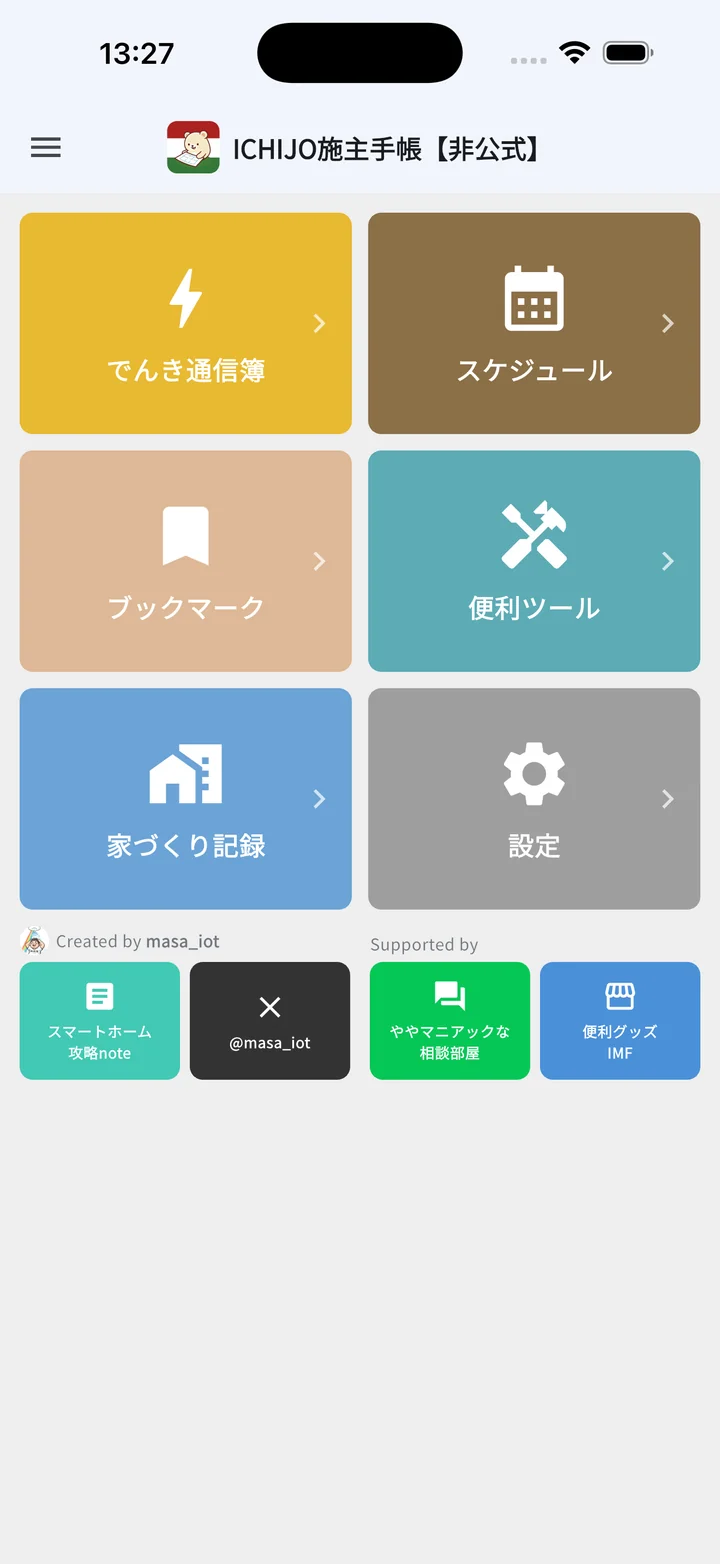
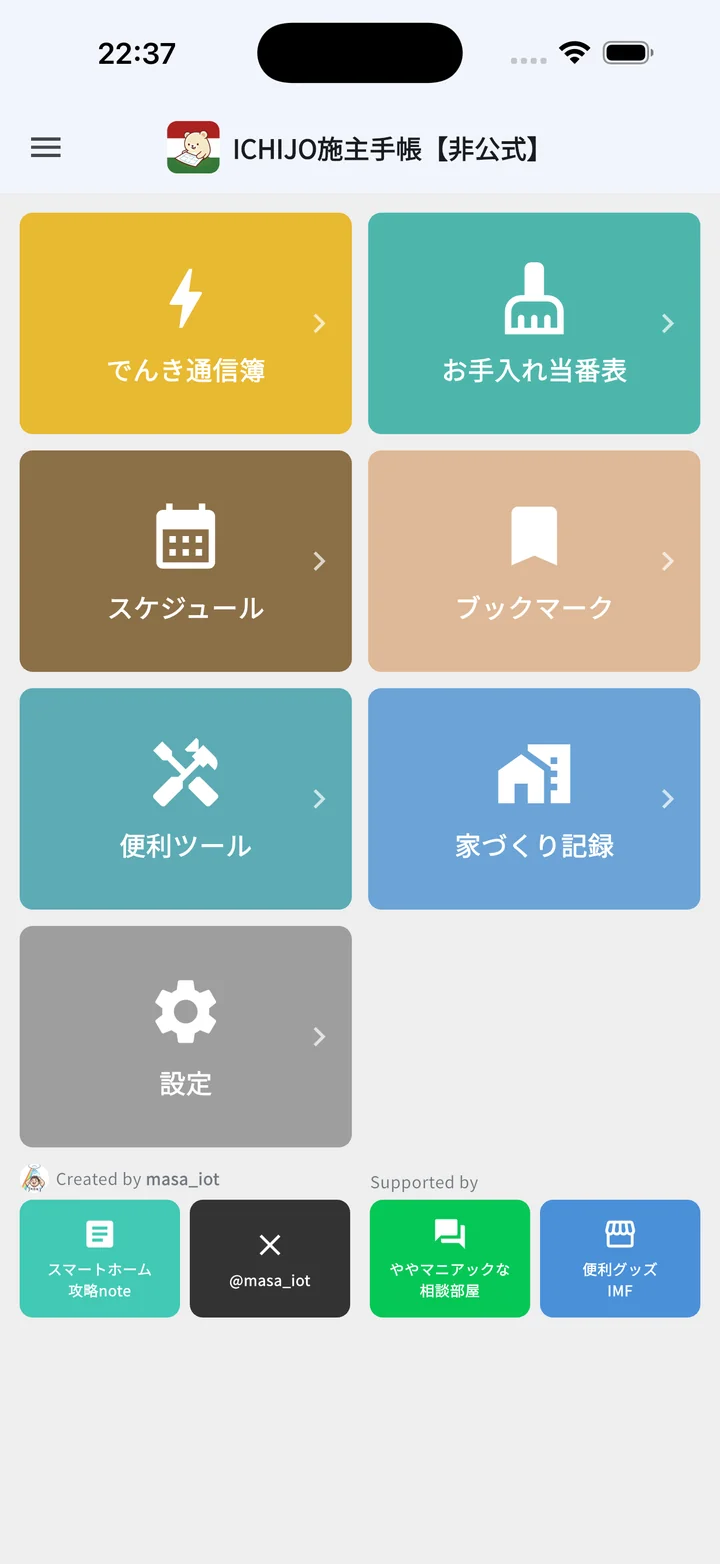
docs: お手入れ当番表セクションを追加 (v1.8.0)
- お手入れ当番表の章を新設（画面構成/追加/消し込み/詳細シート/編集/部屋/消耗品/通知/操作リファレンス、スクショ13枚）
- 暮らしモード 7 タイル化に伴いホーム/サイドメニュー/便利ツール/設定の記述とスクショを更新
- 機能マップ・概要・目次に項目追加

diff --git a/docs/manual.html b/docs/manual.html
@@ -645,6 +645,20 @@
     <li class="sub"><a href="#electricity-actions">操作リファレンス</a></li>
   </ul>
 
+  <h4>お手入れ当番表</h4>
+  <ul>
+    <li><a href="#maintenance">お手入れ当番表</a></li>
+    <li class="sub"><a href="#maintenance-overview">画面構成</a></li>
+    <li class="sub"><a href="#maintenance-add">お手入れの追加</a></li>
+    <li class="sub"><a href="#maintenance-done">実施の記録（消し込み）</a></li>
+    <li class="sub"><a href="#maintenance-detail">詳細シート</a></li>
+    <li class="sub"><a href="#maintenance-edit">編集画面</a></li>
+    <li class="sub"><a href="#maintenance-rooms">部屋の管理</a></li>
+    <li class="sub"><a href="#maintenance-consumables">消耗品と在庫</a></li>
+    <li class="sub"><a href="#maintenance-notifications">通知</a></li>
+    <li class="sub"><a href="#maintenance-actions">操作リファレンス</a></li>
+  </ul>
+
   <h4>マイページ</h4>
   <ul>
     <li><a href="#mypage">マイページ</a></li>
@@ -709,6 +723,7 @@
   <a href="#memo" style="--tile-color:#E07B54"><div class="fmap-icon">📝</div><strong>ウチメモ+</strong><small>画面に直接ピンメモ</small></a>
   <a href="#schedule" style="--tile-color:#8B6F47"><div class="fmap-icon">📅</div><strong>スケジュール</strong><small>家づくり工程をカウントダウン</small></a>
   <a href="#electricity" style="--tile-color:#E8B931"><div class="fmap-icon">⚡</div><strong>でんき通信簿</strong><small>太陽光・蓄電池の通信簿</small></a>
+  <a href="#maintenance" style="--tile-color:#4DB6AC"><div class="fmap-icon">🧹</div><strong>お手入れ当番表</strong><small>定期お手入れの消し込み</small></a>
   <a href="#mypage" style="--tile-color:#4A6FA5"><div class="fmap-icon">👤</div><strong>マイページ</strong><small>家のスペック・SNSシェア</small></a>
 </div>
 
@@ -722,7 +737,7 @@
 <h2 id="getting-started">はじめに</h2>
 
 <h3 id="overview">このアプリについて</h3>
-<p><strong>ICHIJO施主手帳（非公式）</strong>は、一条工務店の施主が自分の打ち合わせを効率化するために作った非公式アプリです。一条公式「iサポ」で届くPDFを取り込むだけで、以下のことが片手でできます。打ち合わせ中はもちろん、入居後にも便利な機能（でんき通信簿・新居生活カウンター等）を順次拡充中です。</p>
+<p><strong>ICHIJO施主手帳（非公式）</strong>は、一条工務店の施主が自分の打ち合わせを効率化するために作った非公式アプリです。一条公式「iサポ」で届くPDFを取り込むだけで、以下のことが片手でできます。打ち合わせ中はもちろん、入居後にも便利な機能（でんき通信簿・お手入れ当番表・新居生活カウンター等）を順次拡充中です。</p>
 <ul>
   <li><strong>ドキュメント管理</strong>：図面番号ベースでグループ化</li>
   <li><strong>図面チェック</strong>：CAD・電気図面のピクセル差分を色分け表示</li>
@@ -733,6 +748,7 @@
   <li><strong>スケジュール</strong>：家づくり工程のタイムライン＆カウントダウン</li>
   <li><strong>ホームウィジェット</strong>：端末ホーム画面にカウントダウン表示</li>
   <li><strong>でんき通信簿</strong>（入居後）：太陽光・蓄電池の経済効果を可視化</li>
+  <li><strong>お手入れ当番表</strong>（入居後）：定期お手入れの消し込み管理・消耗品在庫・通知</li>
   <li><strong>便利ツール</strong>：湿度計算、外部リンク集など</li>
 </ul>
 
@@ -835,12 +851,13 @@
   </tbody>
 </table>
 
-<h3 id="home-living">暮らしモード（6タイル）</h3>
+<h3 id="home-living">暮らしモード（7タイル）</h3>
 <p>入居後のオーナー向けに、打ち合わせ系機能を隠した簡潔なレイアウト。</p>
 <table>
   <thead><tr><th>色</th><th>タイル</th><th>遷移先</th></tr></thead>
   <tbody>
     <tr><td style="color:#E8B931">●</td><td><a href="#electricity">でんき通信簿</a></td><td>でんき通信簿</td></tr>
+    <tr><td style="color:#4DB6AC">●</td><td><a href="#maintenance">お手入れ当番表</a></td><td>お手入れ当番表</td></tr>
     <tr><td style="color:#8B6F47">●</td><td><a href="#schedule">スケジュール</a></td><td>スケジュール一覧</td></tr>
     <tr><td style="color:#DEB896">●</td><td><a href="#bookmark">ブックマーク</a></td><td>ブックマーク一覧</td></tr>
     <tr><td style="color:#5CABB5">●</td><td><a href="#tools">便利ツール</a></td><td>ツール一覧</td></tr>
@@ -887,7 +904,7 @@
 <ul>
   <li>ヘッダー：アプリ名＋バージョン番号＋アイコン</li>
   <li>メニュー（家づくりモード時）：ドキュメント管理／PDF取り込み／見積り管理／図面チェック／仕様書チェック／ウチメモ+／ブックマーク／スケジュール／便利ツール／設定</li>
-  <li>メニュー（暮らしモード時）：でんき通信簿／スケジュール／ブックマーク／便利ツール／家づくり記録／設定</li>
+  <li>メニュー（暮らしモード時）：でんき通信簿／お手入れ当番表／スケジュール／ブックマーク／便利ツール／家づくり記録／設定</li>
 </ul>
 
 <div class="shot-grid">
@@ -2979,8 +2996,194 @@
 </div>
 
 <!-- ═══════════════════════════════════════════════════════ -->
-<!-- 便利ツール                                               -->
+<!-- お手入れ当番表                                           -->
 <!-- ═══════════════════════════════════════════════════════ -->
+<h2 id="maintenance">お手入れ当番表</h2>
+<div class="shot-grid">
+  <figure class="shot-phone">
+    <img src="images/home_highlight_maintenance.webp" alt="ホーム画面でお手入れ当番表タイルを選択" width="720" height="1378" loading="lazy" decoding="async">
+    <figcaption>ホーム（暮らしモード）から「お手入れ当番表」タイルをタップ</figcaption>
+  </figure>
+  <figure class="shot-phone">
+    <img src="images/maintenance_list.webp" width="720" height="1564" alt="お手入れ当番表 一覧（緊急度ビュー）" loading="lazy" decoding="async">
+    <figcaption>一覧画面（緊急度ビュー）</figcaption>
+  </figure>
+</div>
+
+<p>換気フィルターやレンジフードなど、忘れがちなおうちの定期お手入れをワンタップで記録できる機能です。よくあるお手入れ42項目をプリセット収録。消耗品の在庫管理と、お手入れ時期の通知にも対応しています。</p>
+
+<div class="callout info">
+  <p>お手入れ当番表は <strong>暮らしモード</strong> のホーム画面で前面に出てきますが、家づくりモードでは <strong>便利ツール</strong> 画面からアクセスできます。</p>
+</div>
+
+<h3 id="maintenance-overview">画面構成</h3>
+<ul>
+  <li><strong>ダッシュボード（上部）</strong>：「今すぐ」（期日が今日・期日超過）と「在庫わずか」の件数。タップするとその条件で一覧を絞り込みます（もう一度タップ、またはバナーの「解除」で戻る）</li>
+  <li><strong>ビュー切替</strong>：<strong>緊急度 / 部屋ごと</strong> の2種類</li>
+  <li><strong>緊急度ビュー</strong>：「今日実施」「今すぐ」「もうすぐ」「余裕あり」のセクションに自動分類。「もうすぐ」に入るタイミングは項目の周期に応じて自動で変わります（周期が短い項目ほど直前に表示）</li>
+  <li><strong>部屋ごとビュー</strong>：割り当てた部屋単位のグループ表示</li>
+</ul>
+
+<h4>カードの見方</h4>
+<ul>
+  <li><strong>左端のストライプ色</strong>：緊急度（赤=今すぐ／オレンジ=もうすぐ／緑=余裕あり／青緑=今日実施）</li>
+  <li><strong>右上のピル</strong>：「今日」「あと◯日」「◯日超過」の残日数</li>
+  <li><strong>チップ</strong>：割り当てた部屋と消耗品の在庫数。在庫が「残りわずかの目安」以下になると赤く表示されます</li>
+  <li><strong>下部のバー</strong>：次回予定日までの進み具合＋右端に予定日</li>
+</ul>
+
+<div class="shot-grid">
+  <figure class="shot-phone">
+    <img src="images/maintenance_list_rooms.webp" width="720" height="1564" alt="お手入れ当番表 一覧（部屋ごとビュー）" loading="lazy" decoding="async">
+    <figcaption>部屋ごとビュー</figcaption>
+  </figure>
+  <figure class="shot-phone">
+    <img src="images/maintenance_menu.webp" width="720" height="1564" alt="右上メニュー（部屋を管理／消耗品を管理／通知時刻）" loading="lazy" decoding="async">
+    <figcaption>右上メニュー</figcaption>
+  </figure>
+</div>
+
+<h3 id="maintenance-add">お手入れの追加</h3>
+<p>一覧右下の <strong>＋</strong> ボタンから追加します。カテゴリ → 項目の2段階で選ぶプリセット（42項目）と、自由入力の「カスタムを追加」が選べます。</p>
+<ul>
+  <li>プリセットの周期はあくまで目安です。追加するときに自由に変更できます</li>
+  <li>項目を選ぶと編集画面が開き、周期・前回実施日・場所・通知などをその場で設定して保存します</li>
+</ul>
+
+<div class="shot-grid">
+  <figure class="shot-phone">
+    <img src="images/maintenance_preset_categories.webp" width="720" height="1564" alt="お手入れを追加（カテゴリ選択）" loading="lazy" decoding="async">
+    <figcaption>カテゴリ選択（10カテゴリ＋カスタム）</figcaption>
+  </figure>
+  <figure class="shot-phone">
+    <img src="images/maintenance_preset_items.webp" width="720" height="1564" alt="お手入れを追加（換気・空調の項目一覧）" loading="lazy" decoding="async">
+    <figcaption>項目選択（例：換気・空調）</figcaption>
+  </figure>
+</div>
+
+<div class="callout info">
+  <p>同じ場所に同じ項目を複数追加すると、「RA排気口フィルター 交換①②」のように自動で番号が付きます。</p>
+</div>
+
+<h3 id="maintenance-done">実施の記録（消し込み）</h3>
+<ul>
+  <li><strong>カードを左にスワイプ</strong>すると「実施した」ボタンが現れます。タップすると今日の日付で記録され、次回予定日が自動計算されます</li>
+  <li>消耗品をリンクした項目は、<strong>在庫も自動で消費</strong>されます（項目ごとに設定した消費数だけ減ります）</li>
+  <li>実施直後に表示されるメッセージの<strong>「取り消す」</strong>で元に戻せます（消費した在庫も戻ります）</li>
+  <li>同じ日に2回目の「実施した」をすると確認ダイアログが出ます。本当に2回実施した場合だけ記録してください</li>
+  <li>今日実施した項目は、緊急度ビュー先頭の「今日実施」セクションに集まります</li>
+</ul>
+
+<h3 id="maintenance-detail">詳細シート</h3>
+<p>カードをタップすると、画面下から詳細シートが開きます。</p>
+<ul>
+  <li><strong>タイトル右のアイコン</strong>：編集（鉛筆）／削除（ゴミ箱）。項目を削除すると実施記録も一緒に消えます（共有している消耗品の在庫は残ります）</li>
+  <li><strong>カウントダウンピル</strong>：次回予定日と残日数</li>
+  <li><strong>消耗品・在庫</strong>：−／＋で在庫を補充・修正できます。「実施した」での自動消費とは別に、買い足したときなどに使います</li>
+  <li><strong>下部の「実施した」</strong>：スワイプと同じ消し込み操作</li>
+</ul>
+
+<div class="shot-grid">
+  <figure class="shot-phone">
+    <img src="images/maintenance_detail_sheet.webp" width="720" height="1564" alt="お手入れ詳細シート（在庫±・実施した）" loading="lazy" decoding="async">
+    <figcaption>詳細シート（在庫±・実施した）</figcaption>
+  </figure>
+</div>
+
+<h3 id="maintenance-edit">編集画面</h3>
+<p>項目の設定をまとめて変更できます。上部に「次回は ◯◯ ごろ」のプレビューが表示され、周期や前回実施日を変えるとすぐ反映されます。</p>
+<ul>
+  <li><strong>場所</strong>：部屋を割り当てます（指定しない／既存の部屋／新しく作成）</li>
+  <li><strong>周期</strong>：数値＋単位（週／ヶ月／年）</li>
+  <li><strong>前回実施日</strong>：分かれば入力。未設定なら登録日を起点に次回を計算します</li>
+  <li><strong>通知</strong>：しつこく通知／1回通知／通知オフ（詳しくは<a href="#maintenance-notifications">通知</a>へ）</li>
+  <li><strong>予定日の寄せ方</strong>：次回予定日を指定の曜日や土日・祝日に寄せられます（なし／指定曜日／土日祝）</li>
+  <li><strong>消耗品・在庫</strong>：項目で使う消耗品をリンクし、1回の実施で消費する数（×N）を設定。新規の消耗品は「いまある在庫」も入力できます</li>
+  <li><strong>メモ</strong>：自由記入（品番や購入先のひかえなどに）</li>
+</ul>
+
+<div class="shot-grid">
+  <figure class="shot-phone">
+    <img src="images/maintenance_edit_top.webp" width="720" height="1564" alt="お手入れ編集画面（上部：プレビュー・場所・周期・前回実施日・通知）" loading="lazy" decoding="async">
+    <figcaption>編集画面（上：場所・周期・通知）</figcaption>
+  </figure>
+  <figure class="shot-phone">
+    <img src="images/maintenance_edit_bottom.webp" width="720" height="1564" alt="お手入れ編集画面（下部：予定日の寄せ方・消耗品・メモ）" loading="lazy" decoding="async">
+    <figcaption>編集画面（下：寄せ方・消耗品・メモ）</figcaption>
+  </figure>
+</div>
+
+<div class="callout info">
+  <p>プリセット項目は名前とカテゴリが固定です（カスタム項目のみ変更できます）。</p>
+</div>
+
+<h3 id="maintenance-rooms">部屋の管理</h3>
+<p>右上メニューの「部屋を管理」から。プリセット25種（玄関〜庭）＋フロア（1〜3階）＋自由入力で部屋を登録し、お手入れ項目に割り当てられます。</p>
+<ul>
+  <li>同じフロアに同じ部屋を複数作ると「洋室①②」のように自動で番号が付きます</li>
+  <li><strong>タップで編集、長押しで削除</strong>。部屋を削除しても項目は消えず、場所が「指定なし」に戻ります</li>
+</ul>
+
+<div class="shot-grid">
+  <figure class="shot-phone">
+    <img src="images/maintenance_room_manage.webp" width="720" height="1564" alt="部屋を管理（フロア別一覧・割当件数つき）" loading="lazy" decoding="async">
+    <figcaption>部屋を管理（フロア別・割当件数つき）</figcaption>
+  </figure>
+  <figure class="shot-phone">
+    <img src="images/maintenance_room_add.webp" width="720" height="1564" alt="部屋を追加（フロア＋部屋チップ）" loading="lazy" decoding="async">
+    <figcaption>部屋を追加</figcaption>
+  </figure>
+</div>
+
+<h3 id="maintenance-consumables">消耗品と在庫</h3>
+<p>フィルターなどの消耗品は、<strong>在庫がアプリ全体で共有</strong>されます。同じ消耗品を複数の項目にリンクすると、どの項目で実施しても同じ在庫から減ります。</p>
+<ul>
+  <li><strong>消耗品を管理</strong>（右上メニュー）：全消耗品の在庫を一覧し、−／＋でクイック補充。タップで編集、長押しで削除</li>
+  <li><strong>残りわずかの目安</strong>：在庫がこの数以下になると赤く表示され、ダッシュボードの「在庫わずか」に数えられます（はじめは 1、変更できます）</li>
+</ul>
+
+<div class="shot-grid">
+  <figure class="shot-phone">
+    <img src="images/maintenance_consumable_manage.webp" width="720" height="1564" alt="消耗品を管理（在庫一覧・在庫わずかは赤字）" loading="lazy" decoding="async">
+    <figcaption>消耗品を管理（在庫わずかは赤字）</figcaption>
+  </figure>
+</div>
+
+<h3 id="maintenance-notifications">通知</h3>
+<p>お手入れ時期を端末の通知でお知らせします。項目ごとに編集画面で設定します。</p>
+<ul>
+  <li><strong>しつこく通知</strong>：実施を記録するまで、毎日通知します（最大14日間）</li>
+  <li><strong>1回通知</strong>：1回だけ通知します</li>
+  <li><strong>通知オフ</strong>：通知しません</li>
+  <li><strong>何日前に通知</strong>：通知が始まる日を予定日の◯日前にずらせます（0 なら予定日当日から）</li>
+  <li><strong>通知時刻</strong>：すべての項目で共通です。右上メニューの「通知時刻」または編集画面から変更できます（はじめは 9:00）</li>
+  <li><strong>通知をタップ</strong>すると、その項目の詳細シートが直接開きます</li>
+</ul>
+
+<div class="shot-grid">
+  <figure class="shot-phone">
+    <img src="images/maintenance_notif_time.webp" width="720" height="1564" alt="通知時刻の変更（タイムピッカー）" loading="lazy" decoding="async">
+    <figcaption>通知時刻の変更（全項目共通）</figcaption>
+  </figure>
+</div>
+
+<div class="callout warn">
+  <p>通知の許可（OSのダイアログ）は、通知をオンにした項目を保存したときや、通知時刻を変更したときに表示されます。許可しなかった場合も、あとからアプリ内の案内で端末の設定画面を開いて変更できます。なお、省電力の仕組みの都合で、通知は設定時刻から数分前後することがあります。</p>
+</div>
+
+<h3 id="maintenance-actions">操作リファレンス</h3>
+<div class="action-box">
+  <div class="action-row"><strong>カードを左にスワイプ</strong><span>「実施した」で消し込み（在庫も自動消費）</span></div>
+  <div class="action-row"><strong>カードをタップ</strong><span>詳細シートを開く</span></div>
+  <div class="action-row"><strong>カードを長押し</strong><span>項目を削除（確認ダイアログ）</span></div>
+  <div class="action-row"><strong>ダッシュボードをタップ</strong><span>「今すぐ」「在庫わずか」で絞り込み（再タップで解除）</span></div>
+  <div class="action-row"><strong>緊急度／部屋ごと</strong><span>一覧の表示切替</span></div>
+  <div class="action-row"><strong>＋ボタン</strong><span>お手入れの追加（プリセット／カスタム）</span></div>
+  <div class="action-row"><strong>右上メニュー</strong><span>部屋を管理／消耗品を管理／通知時刻</span></div>
+  <div class="action-row"><strong>シートのタイトル右アイコン</strong><span>編集（鉛筆）／削除（ゴミ箱）</span></div>
+  <div class="action-row"><strong>部屋・消耗品の行</strong><span>タップで編集、長押しで削除</span></div>
+</div>
+
 <!-- ═══════════════════════════════════════════════════════ -->
 <!-- マイページ                                               -->
 <!-- ═══════════════════════════════════════════════════════ -->
@@ -3226,13 +3429,14 @@
 <h4>家づくりモード時</h4>
 <ul>
   <li><strong>でんき通信簿</strong>（アプリ内）</li>
+  <li><strong>お手入れ当番表</strong>（アプリ内）</li>
   <li><strong>湿度計算ツール</strong>（アプリ内）</li>
   <li><strong>熱負荷計算ツール</strong>（外部：UA値から熱負荷をシミュレーション）</li>
   <li><strong>エアコン仕様比較表</strong>（外部：一条で選べるエアコンのスペック一覧）</li>
 </ul>
 
 <h4>暮らしモード時</h4>
-<p>暮らしモードでは <strong>でんき通信簿</strong> がホーム画面のタイルとして前面に出るため、便利ツール一覧には含まれません。それ以外のツールは共通です。</p>
+<p>暮らしモードでは <strong>でんき通信簿</strong> と <strong>お手入れ当番表</strong> がホーム画面のタイルとして前面に出るため、便利ツール一覧には含まれません。それ以外のツールは共通です。</p>
 
 <div class="shot-grid">
   <figure class="shot-phone">
@@ -3241,11 +3445,11 @@
   </figure>
   <figure class="shot-phone">
     <img src="images/tools_list.webp" width="720" height="1564" alt="便利ツール一覧（家づくりモード）" loading="lazy" decoding="async">
-    <figcaption>家づくりモード版（でんき通信簿あり）</figcaption>
+    <figcaption>家づくりモード版（でんき通信簿・お手入れ当番表あり）</figcaption>
   </figure>
   <figure class="shot-phone">
     <img src="images/tools_list_living.webp" width="720" height="1564" alt="便利ツール一覧（暮らしモード）" loading="lazy" decoding="async">
-    <figcaption>暮らしモード版（でんき通信簿なし）</figcaption>
+    <figcaption>暮らしモード版（でんき通信簿・お手入れ当番表なし）</figcaption>
   </figure>
 </div>
 
@@ -3402,7 +3606,7 @@
 <p>家づくりモード ↔ 暮らしモードを切り替えるトグルスイッチ。切り替えるとホーム画面のタイル構成、サイドメニュー、便利ツール一覧が変わります。</p>
 <ul>
   <li><strong>家づくりモード</strong>（契約〜引き渡しまでの施主向け）：10タイル（ドキュメント管理・図面チェック・見積り管理 等を前面に）</li>
-  <li><strong>暮らしモード</strong>（入居後向け）：6タイル（でんき通信簿・スケジュール・家づくり記録 等を前面に、打ち合わせ系機能は非表示）</li>
+  <li><strong>暮らしモード</strong>（入居後向け）：7タイル（でんき通信簿・お手入れ当番表・スケジュール・家づくり記録 等を前面に、打ち合わせ系機能は非表示）</li>
 </ul>
 <p>詳細は <a href="#home-ieduzukuri">家づくりモード</a> ／ <a href="#home-living">暮らしモード</a> を参照。</p>
 
